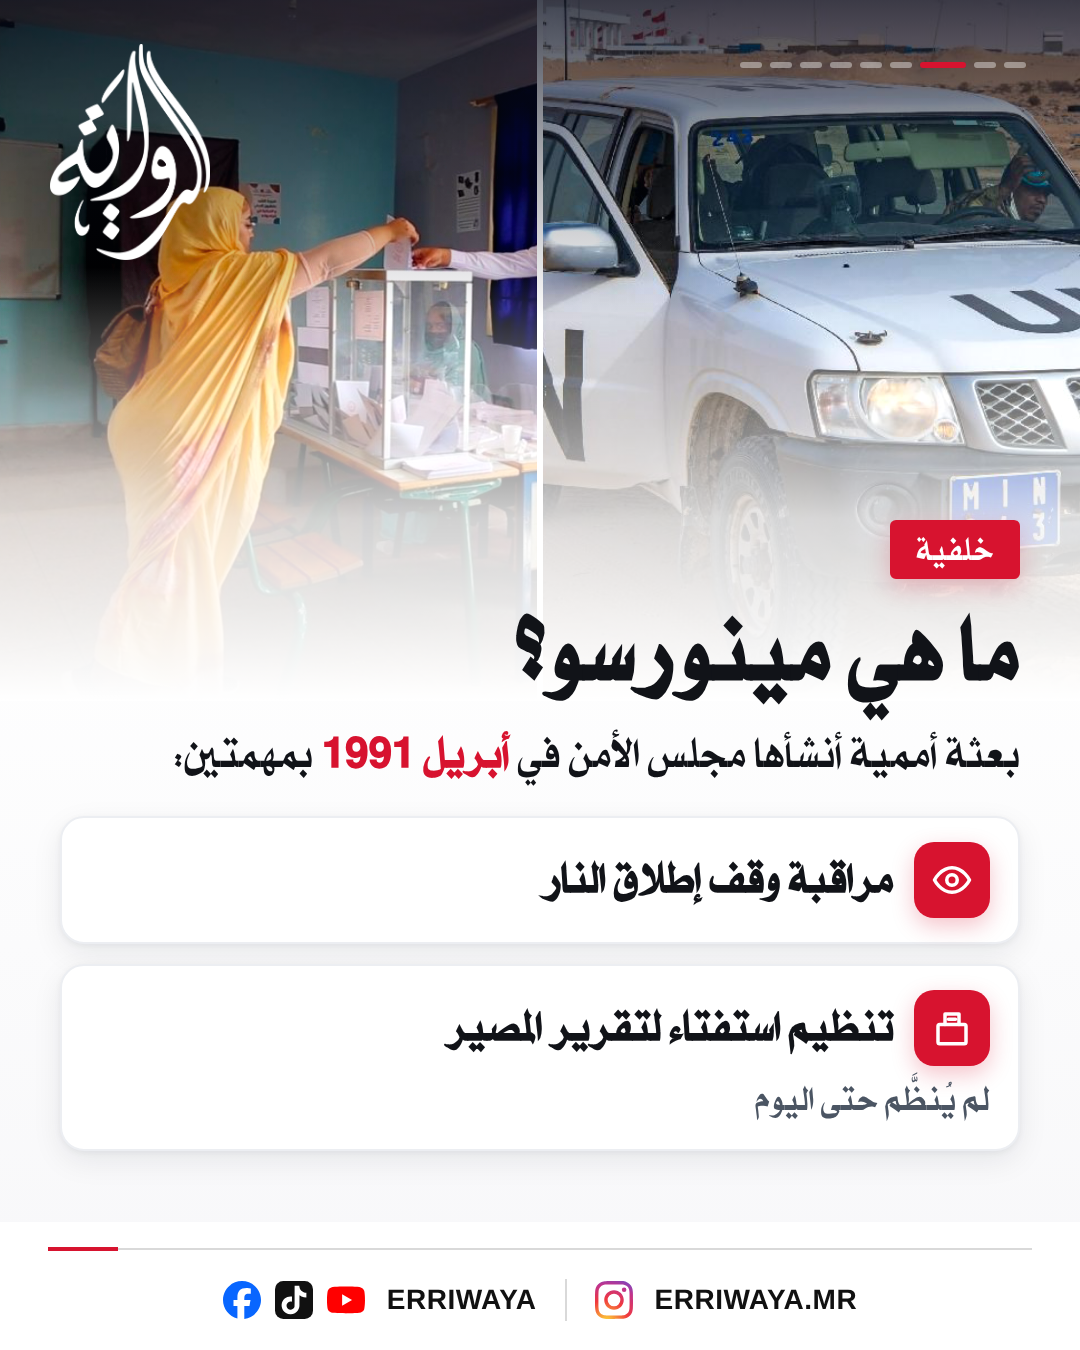
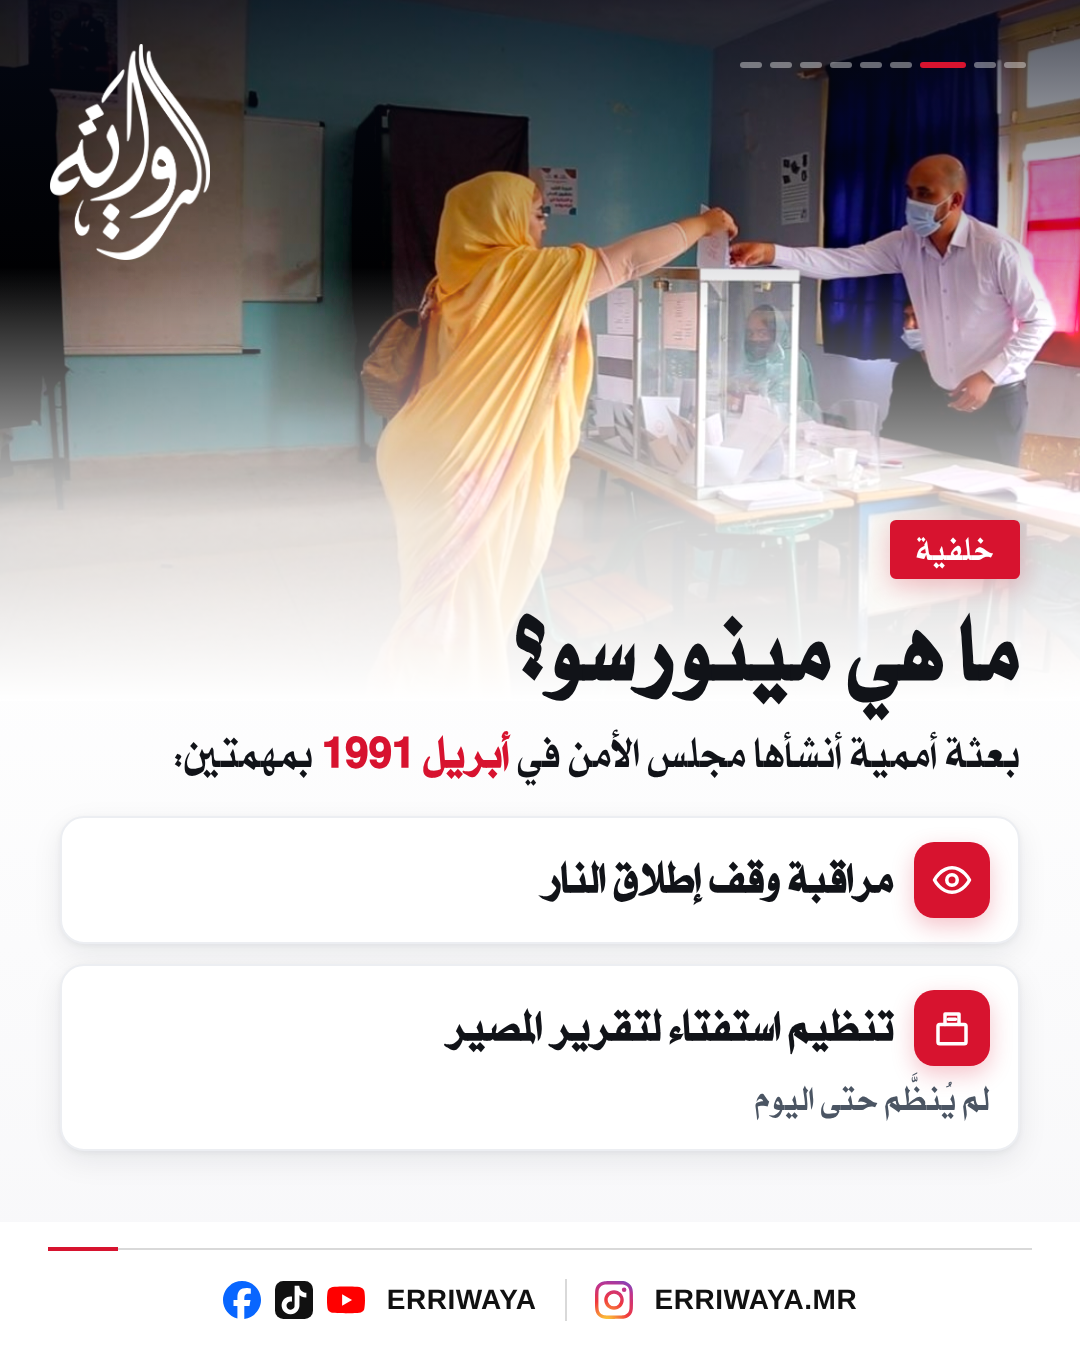
MINURSO carousel: single photos on slides 3-4, Brahim Ghali opposite the king
Claude-Session: https://claude.ai/code/session_01S8ECGBwohQoomeMp3zGTaV

diff --git a/carousels/2026-10-29-minurso/carousel.html b/carousels/2026-10-29-minurso/carousel.html
@@ -128,7 +128,7 @@
 
 <!-- 3 · what is MINURSO -->
 <section class="slide">
-  <div class="photo"><img src="img/minurso.webp" style="object-position:62% 50%"><img src="img/ballot.jpg" style="object-position:55% 45%"></div>
+  <div class="photo"><img src="img/ballot.jpg" style="object-position:50% 40%"></div>
   <div class="body">
     <span class="kick">خلفية</span>
     <h1>ما هي مينورسو؟</h1>
@@ -143,8 +143,8 @@
 
 <!-- 4 · timeline -->
 <section class="slide">
-  <div class="photo" style="height:600px"><img src="img/war-1970s.jpg" style="object-position:30% 50%"><img src="img/camps.jpg" style="object-position:50% 40%"></div>
-  <div class="body" style="top:330px">
+  <div class="photo" style="height:720px"><img src="img/war-1970s.jpg" style="object-position:40% 60%"></div>
+  <div class="body" style="top:410px">
     <span class="kick">محطات</span>
     <h1>نصف قرن من النزاع</h1>
     <div class="tl">
@@ -189,7 +189,7 @@
 
 <!-- 7 · positions -->
 <section class="slide">
-  <div class="photo" style="height:600px"><img src="img/ma-king.webp" style="object-position:40% 30%"><img src="img/sahrawi-flags.jpg" style="object-position:50% 30%"></div>
+  <div class="photo" style="height:600px"><img src="img/ma-king.webp" style="object-position:40% 30%"><img src="img/brahim-ghali.webp" style="object-position:50% 25%"></div>
   <div class="body" style="top:430px">
     <span class="kick">المواقف</span>
     <h1>أين يقف كل طرف؟</h1>
